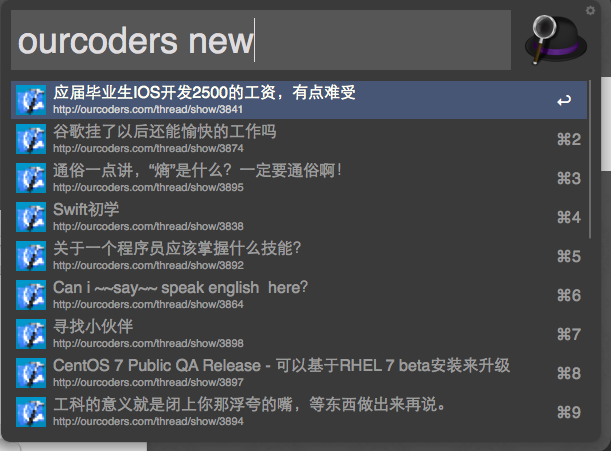
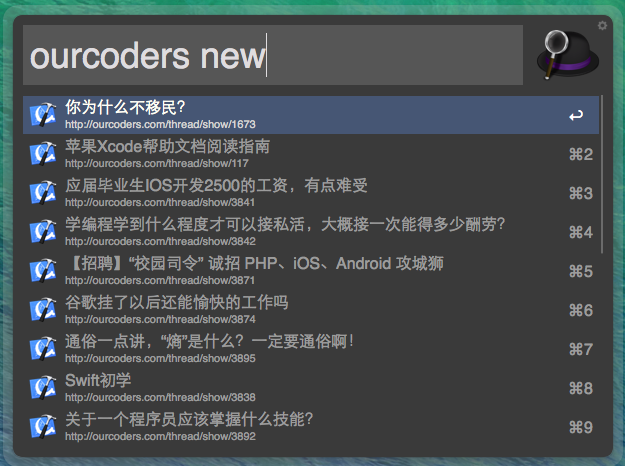
更换高像素的图标

diff --git a/README.md b/README.md
@@ -2,37 +2,54 @@ workflow.ourcoders
 ==================
 
 workflow for http://ourcoders.com  
-这是一个通过命令查看 [ourcoders](http://ourcoders.com) 的讨论最新、最热、最冷文章的workflow。  
-借鉴了v2ex的那个插件，以及FindYYeTs 完成的。  
-使用的语言是python。  
 
-具体教程： [敬请期待]()
+
+Description
+===========
+这是一个通过命令查看 [OurCoders](http://ourcoders.com) 的讨论最新、最热、最冷帖子的workflow。  
+借鉴了[v2ex](https://github.com/hzlzh/Alfred-Workflows#v2ex-v10)的那个插件，以及[FindYYeTs](https://github.com/jackychi/FindYYeTs) 完成的。  
+
+具体教程： [敬请期待...]()
+
+
+Development
+===========
+
+OurCoders.workflow 使用的是Python 2.7开发的。  
+
+使用的了urllib2下载网站内容，然后通过正则匹配(re模块)获取相应的文章标题与链接。  
+
 
 Requirements
 ============
 
-+ Python 2.7
-+ Alfred 2
-+ PowerPack
++ Python 2.7 (系统自带)
++ Alfred 2   (免费)
++ Powerpack  (收费)
+
 
 Installation
 ============
 
 下载 [OurCoders.alfredworkflow](https://github.com/sser-huangdong/workflow.ourcoders/blob/master/OurCoders.alfredworkflow?raw=true), 双击导入Alfred 2即可
 
-How to use
-==========
 
-1.. 通过热键(默认是```option+space```)呼出Alfred,  
-2.1 通过```ourcoders new```获取最新文章,  
-2.2 通过```ourcoders hot```获取最热文章,  
-2.3 通过```ourcoders cold```获取最冷文章。  
+Usage
+=====
+
+1.. 通过热键(默认是```option+space```)呼出Alfred；  
+2.1 通过```ourcoders new```获取最新帖子；  
+2.2 通过```ourcoders hot```获取最热帖子；  
+2.3 通过```ourcoders cold```获取最冷帖子。  
+P.S. 输入正确的命令之后可能由于网络原因没有及时响应，相应提醒稍后添加。  
 ![demo](demo.png)
+
 
 Todo
 ====
 
-1. 使用像素更高的图标
+1. 使用像素更高的图标 -- Done
 2. 编写入门教程
-3. 思考添加更多功能
+3. 添加加载中的提醒功能
+4. 思考添加更多功能
 
